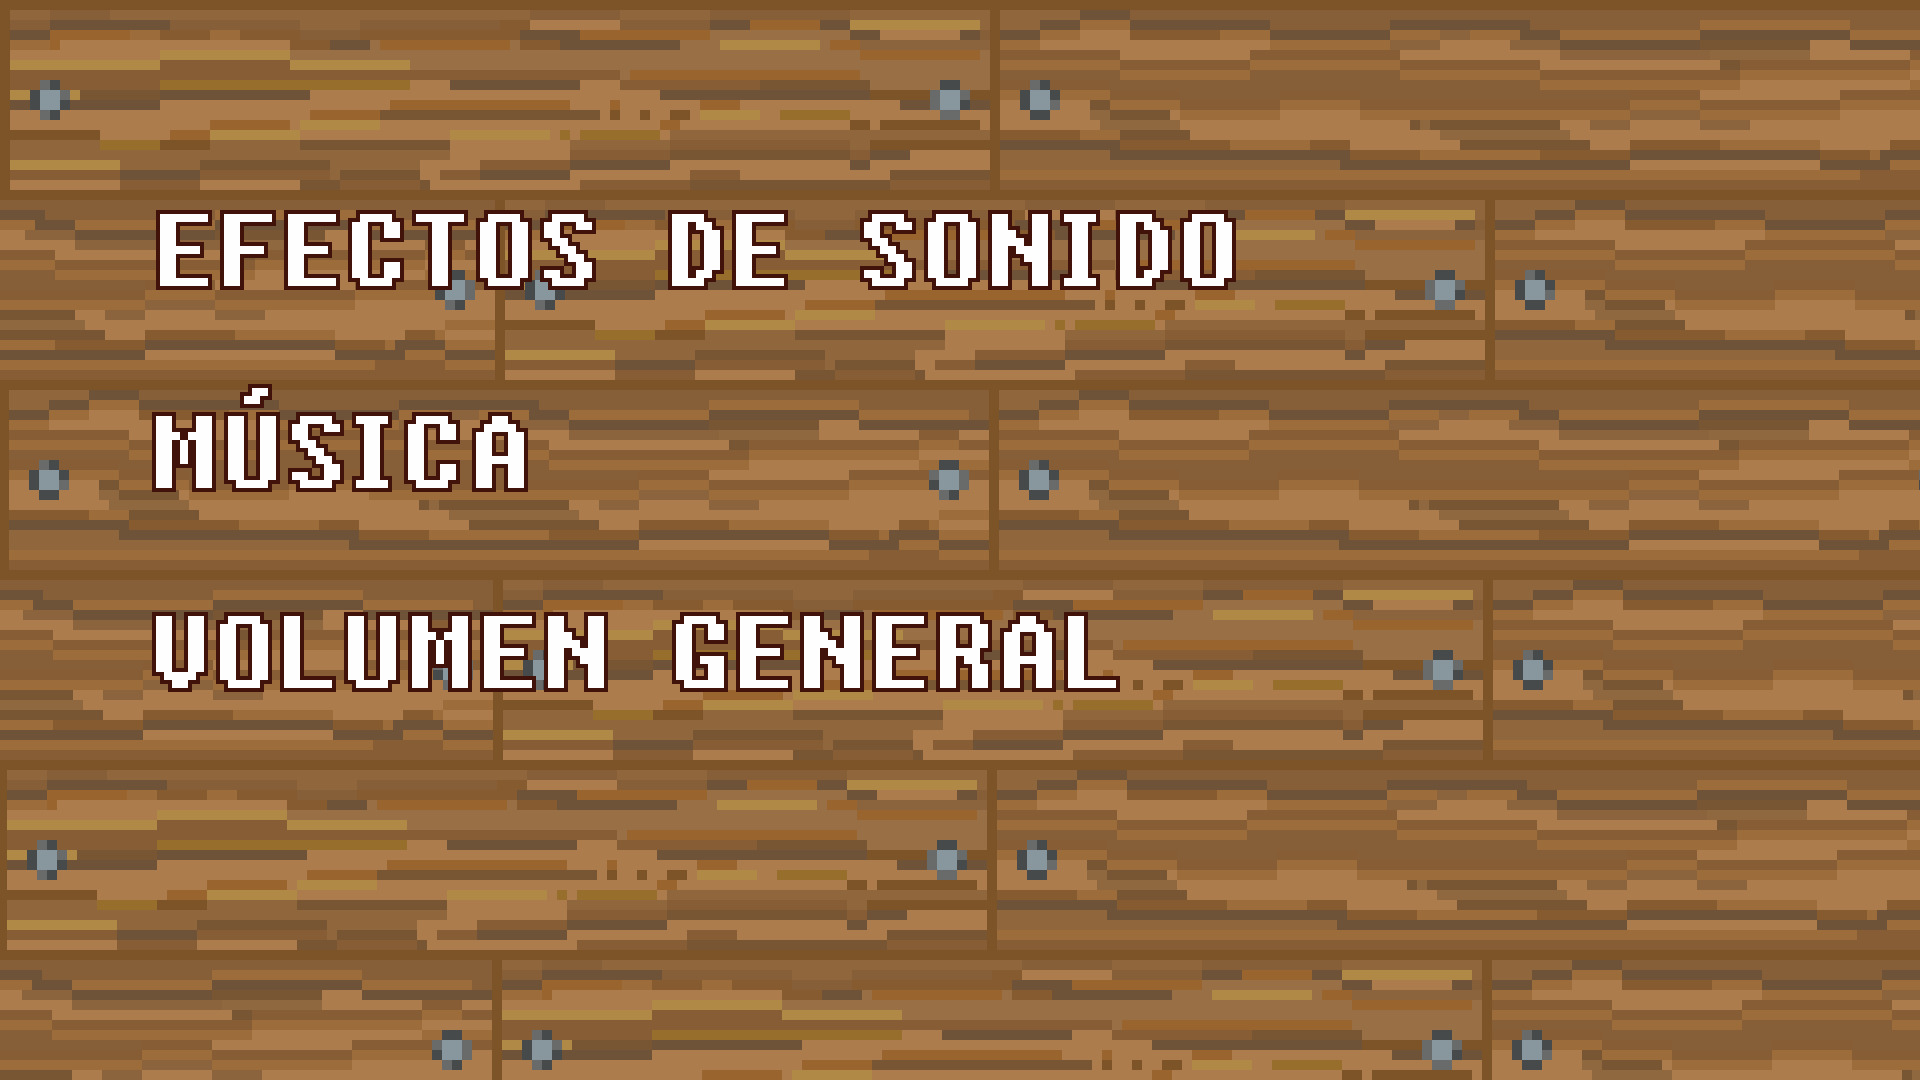
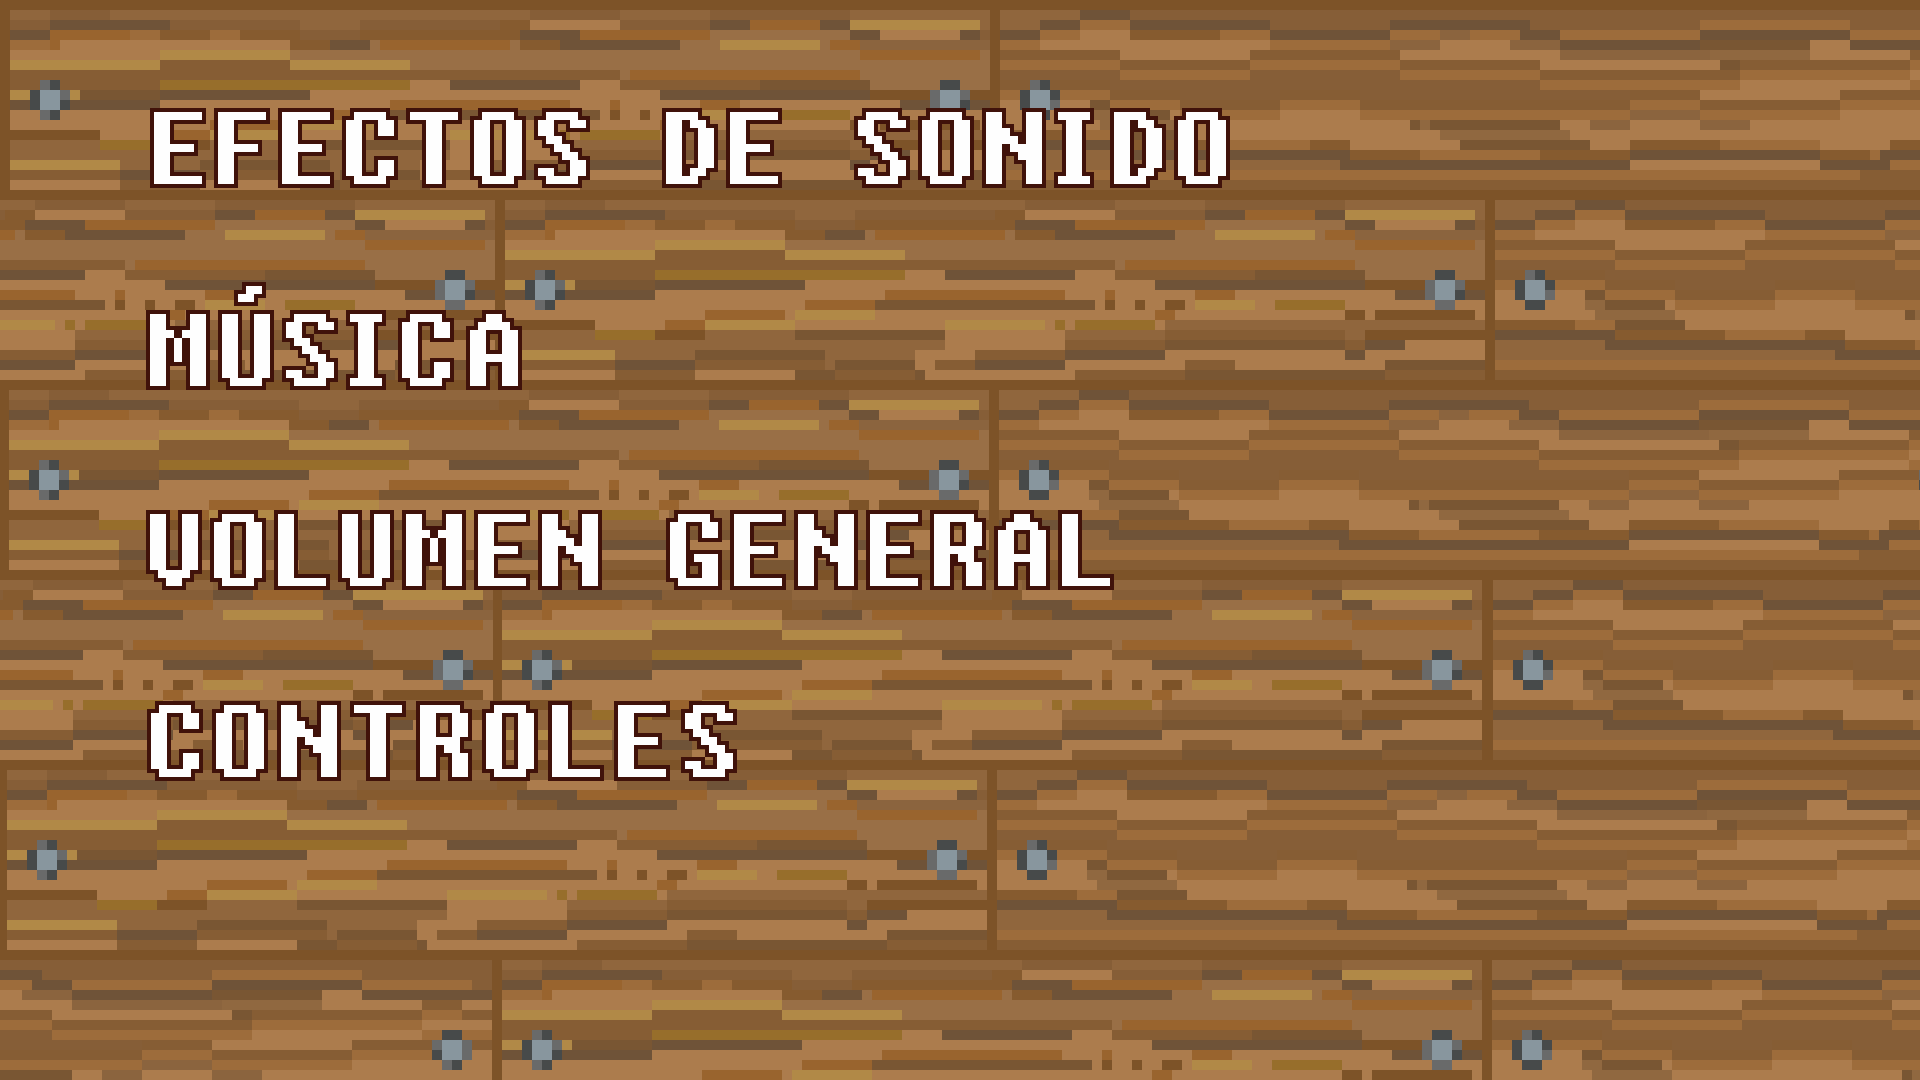
Implementado la pantalla de controles y el sprite del muro de la arquitecta.

Changed region(s): [[0.0, 0.0917, 0.5938, 0.7333], [0.4375, 0.0917, 0.6562, 0.275], [0.3438, 0.0917, 0.4062, 0.275]]

diff --git a/PaintlLess/Assets/game/SettingsState.cpp b/PaintlLess/Assets/game/SettingsState.cpp
@@ -10,6 +10,7 @@
 #include "../components/ButtonTick.h"
 #include "../components/MenuButton.h"
 #include "../game/GameStateMachine.h"
+#include "../game/ControlState.h"
 
 SettingsState::SettingsState(GameStateMachine* gsm, PlayState* pS) : GameState(gsm) {
 	auto* fondo = mngr_->addEntity(RenderLayer::Fondo);
@@ -31,14 +32,19 @@ SettingsState::SettingsState(GameStateMachine* gsm, PlayState* pS) : GameState(g
 	botonX->addComponent<MenuButton>(gsm, goBack);
 
 	auto* botonTick = mngr_->addEntity(RenderLayer::Interfaz);
-	botonTick->addComponent<Transform2>(Vector2D(sdlutils().width() - 600, 200), 100, 100);
+	botonTick->addComponent<Transform2>(Vector2D(sdlutils().width() - 600, 100), 125, 125);
 	botonTick->addComponent<Image>(&sdlutils().images().at("tick1"));
 	botonTick->addComponent<ButtonTick>(&sdlutils().images().at("tick2"), tickVolume);
 
 	auto* botonTick2 = mngr_->addEntity(RenderLayer::Interfaz);
-	botonTick2->addComponent<Transform2>(Vector2D(sdlutils().width() - 600, 400), 100, 100);
+	botonTick2->addComponent<Transform2>(Vector2D(sdlutils().width() - 600, 300), 125, 125);
 	botonTick2->addComponent<Image>(&sdlutils().images().at("tick1"));
 	botonTick2->addComponent<ButtonTick>(&sdlutils().images().at("tick2"), tickVolume);
+
+	auto* botonControles = mngr_->addEntity(RenderLayer::Interfaz);
+	botonControles->addComponent<Transform>(Vector2D(sdlutils().width() - 600, sdlutils().height() / 2 + 145), 125, 125);
+	botonControles->addComponent<Image>(&sdlutils().images().at("mando"));
+	botonControles->addComponent<MenuButton>(gsm, goControles);
 
 	if (pS != nullptr) {
 		playState_ = pS;
@@ -63,4 +69,9 @@ void SettingsState::update() {
 	if (ih().isKeyDown(SDL_SCANCODE_ESCAPE)) {
 		gameStateMachine->popState();
 	}
+}
+
+
+void SettingsState::goControles(GameStateMachine* gsm) {
+	gsm->pushState(new ControlState(gsm, &sdlutils().images().at("controles"), false));
 }

diff --git a/PaintlLess/Assets/game/ControlState.cpp b/PaintlLess/Assets/game/ControlState.cpp
@@ -1,0 +1,41 @@
+#include "ControlState.h"
+#include "../sdlutils/Texture.h"
+#include "../sdlutils/SDLUtils.h"
+#include "../sdlutils/InputHandler.h"
+#include "../game/GameStateMachine.h"
+#include "../components/Image.h"
+#include "../components/Transform.h"
+
+ControlState::ControlState(GameStateMachine* gsm, Texture* desc, bool playState) : GameState(gsm) {
+	desc_ = desc;
+	playState_ = playState;
+	timer_ = 0;
+}
+
+void ControlState::init() {
+	SDL_Rect dest;
+	dest.x = sdlutils().width() / 2 - width / 2;
+	dest.y = sdlutils().height() / 2 - height / 2;
+	dest.w = width;
+	dest.h = height;
+	desc_->render(dest);
+	if (!playState_) {
+		dest.x = sdlutils().width() - 150;
+		dest.y = 0;
+		dest.w = 150;
+		dest.h = 150;
+		tr_ = Vector2D(dest.x, dest.y);
+		sdlutils().images().at("botonAtras").render(dest);
+	}
+	sdlutils().presentRenderer();
+}
+
+void ControlState::update() {
+	if (ih().mouseButtonEvent()) {
+		int mX = ih().getMousePos().first;
+		int mY = ih().getMousePos().second;
+		if (ih().getMouseButtonState(ih().LEFT) && mX > tr_.getX() && mX < tr_.getX() + 150 && mY > tr_.getY() && mY < tr_.getY() + 150) {
+			gameStateMachine->popState();
+		}
+	}
+}

diff --git a/PaintlLess/Assets/game/ControlState.h b/PaintlLess/Assets/game/ControlState.h
@@ -1,0 +1,25 @@
+#pragma once
+
+#include "GameState.h"
+#include "../sdlutils/SDLUtils.h"
+
+class GameStateMachine;
+class Texture;
+class Transform;
+
+class ControlState : public GameState {
+private:
+	const int width = sdlutils().width();
+	const int height = sdlutils().height();
+
+	Texture* desc_;
+	Vector2D tr_;
+	bool playState_;
+	int timer_;
+public:
+	ControlState(GameStateMachine* gsm, Texture* desc, bool playState);
+	~ControlState() {}
+	void init() override;
+	void update() override;
+
+};

diff --git a/PaintlLess/Assets/game/Game.cpp b/PaintlLess/Assets/game/Game.cpp
@@ -29,7 +29,7 @@ Game::~Game() { //revisar
 void Game::init() {
 
 	//mngr_.reset(new Manager());
-	SDLUtils::init("PaintLess", 1920, 1000, "resources/config/resources.json");
+	SDLUtils::init("PaintLess", 1920, 1080, "resources/config/resources.json");
 	stateMachine = new GameStateMachine();
 	stateMachine->pushState(new MainMenuState(stateMachine));
 	

diff --git a/PaintlLess/Assets/game/CharacterSelectionState.cpp b/PaintlLess/Assets/game/CharacterSelectionState.cpp
@@ -164,7 +164,7 @@ void CharacterSelectionState::update() {
 	mngr_->refresh();
 
 	if (ih().isKeyDown(SDL_SCANCODE_D)) {
-		updateAlquimista(gameStateMachine);
+		updateArquitecta(gameStateMachine);
 		updateBomba(gameStateMachine);
 		updateEsqueleto(gameStateMachine);
 		updateGolem(gameStateMachine);

diff --git a/PaintlLess/Assets/game/SettingsState.h b/PaintlLess/Assets/game/SettingsState.h
@@ -13,4 +13,5 @@ public:
 	static void goBack(GameStateMachine* gsm);
 	static void tickVolume(bool state);
 	static void surrender(GameStateMachine* gsm);
+	static void goControles(GameStateMachine* gsm);
 };
